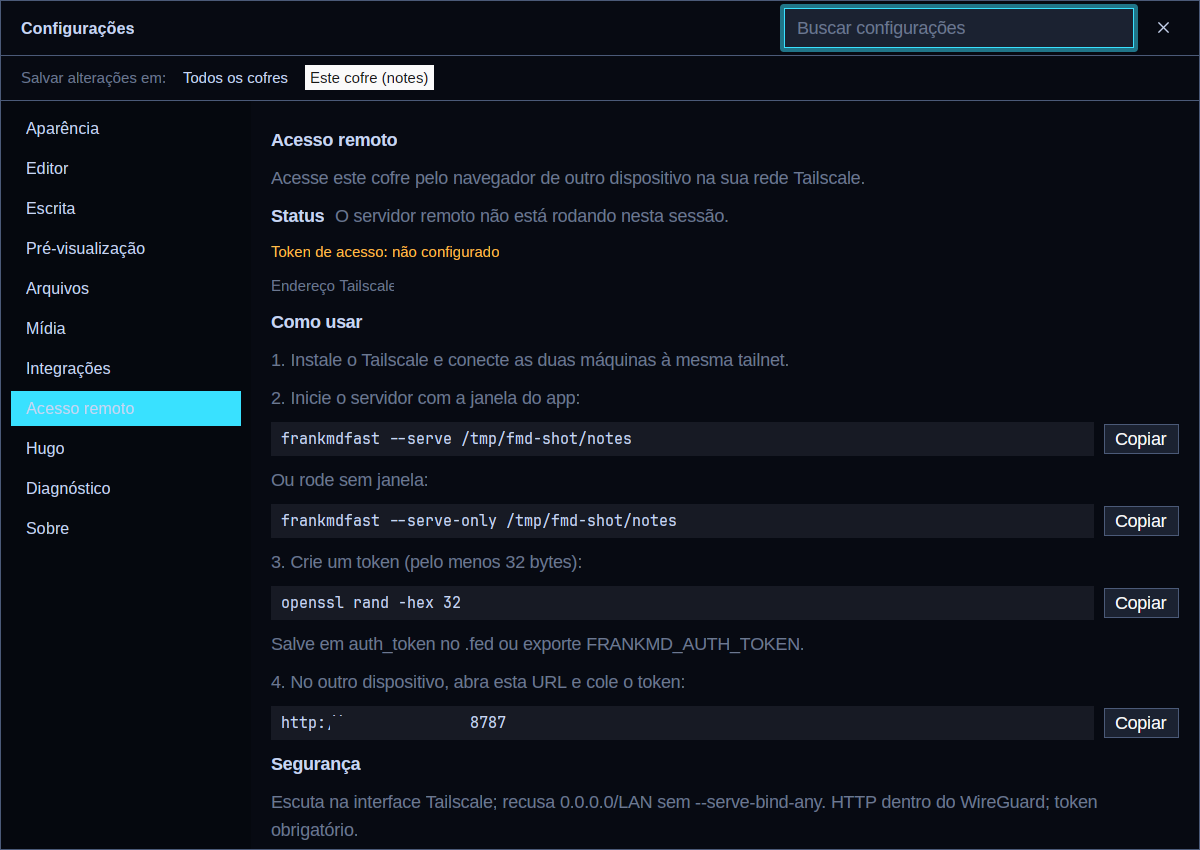
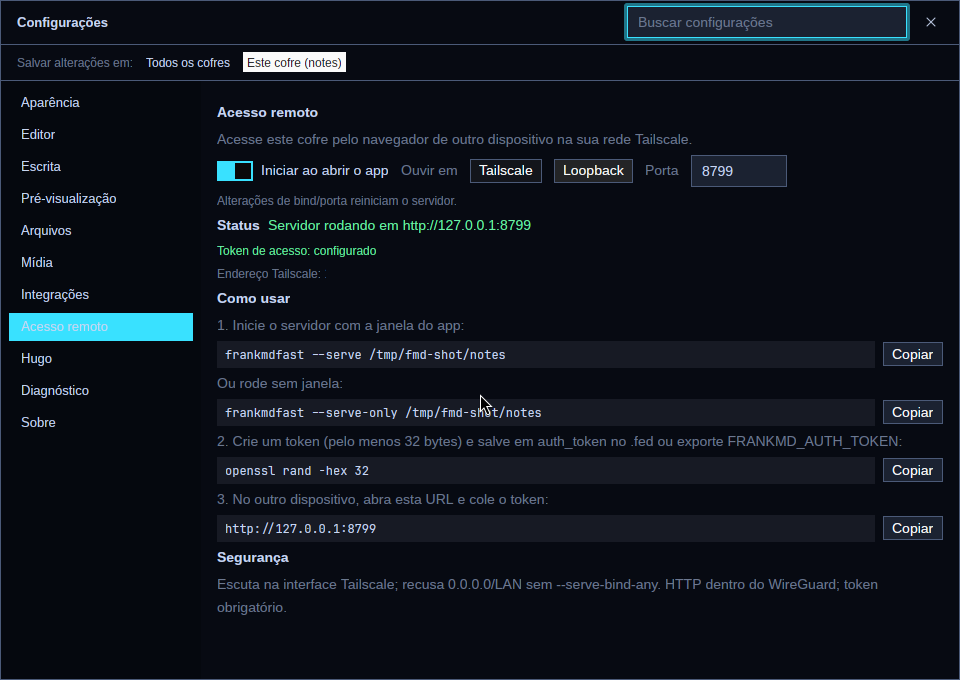
README: refresh the remote panel screenshot
Replace the Settings › Remote image with the current panel: the start-on-launch
switch, Tailscale/Loopback bind choice, port field and running status, with the
Tailscale address redacted. Fix the step numbering (1/2/3) in every locale now
that the "install Tailscale" line is part of the intro.

diff --git a/README.md b/README.md
@@ -21,7 +21,7 @@
 ## Remote access (Tailscale) — start it from Settings
 
 <p align="center">
-  <img src="docs/remote-settings.png" width="860" alt="Settings › Remote access: status, Tailscale address, token, copy-ready commands and security note">
+  <img src="docs/remote-settings.png" width="860" alt="Settings › Remote access: start on app launch, Tailscale/Loopback, port, running status, token and copy-ready commands">
 </p>
 
 Serve this vault to a browser on another device on your Tailscale network,
